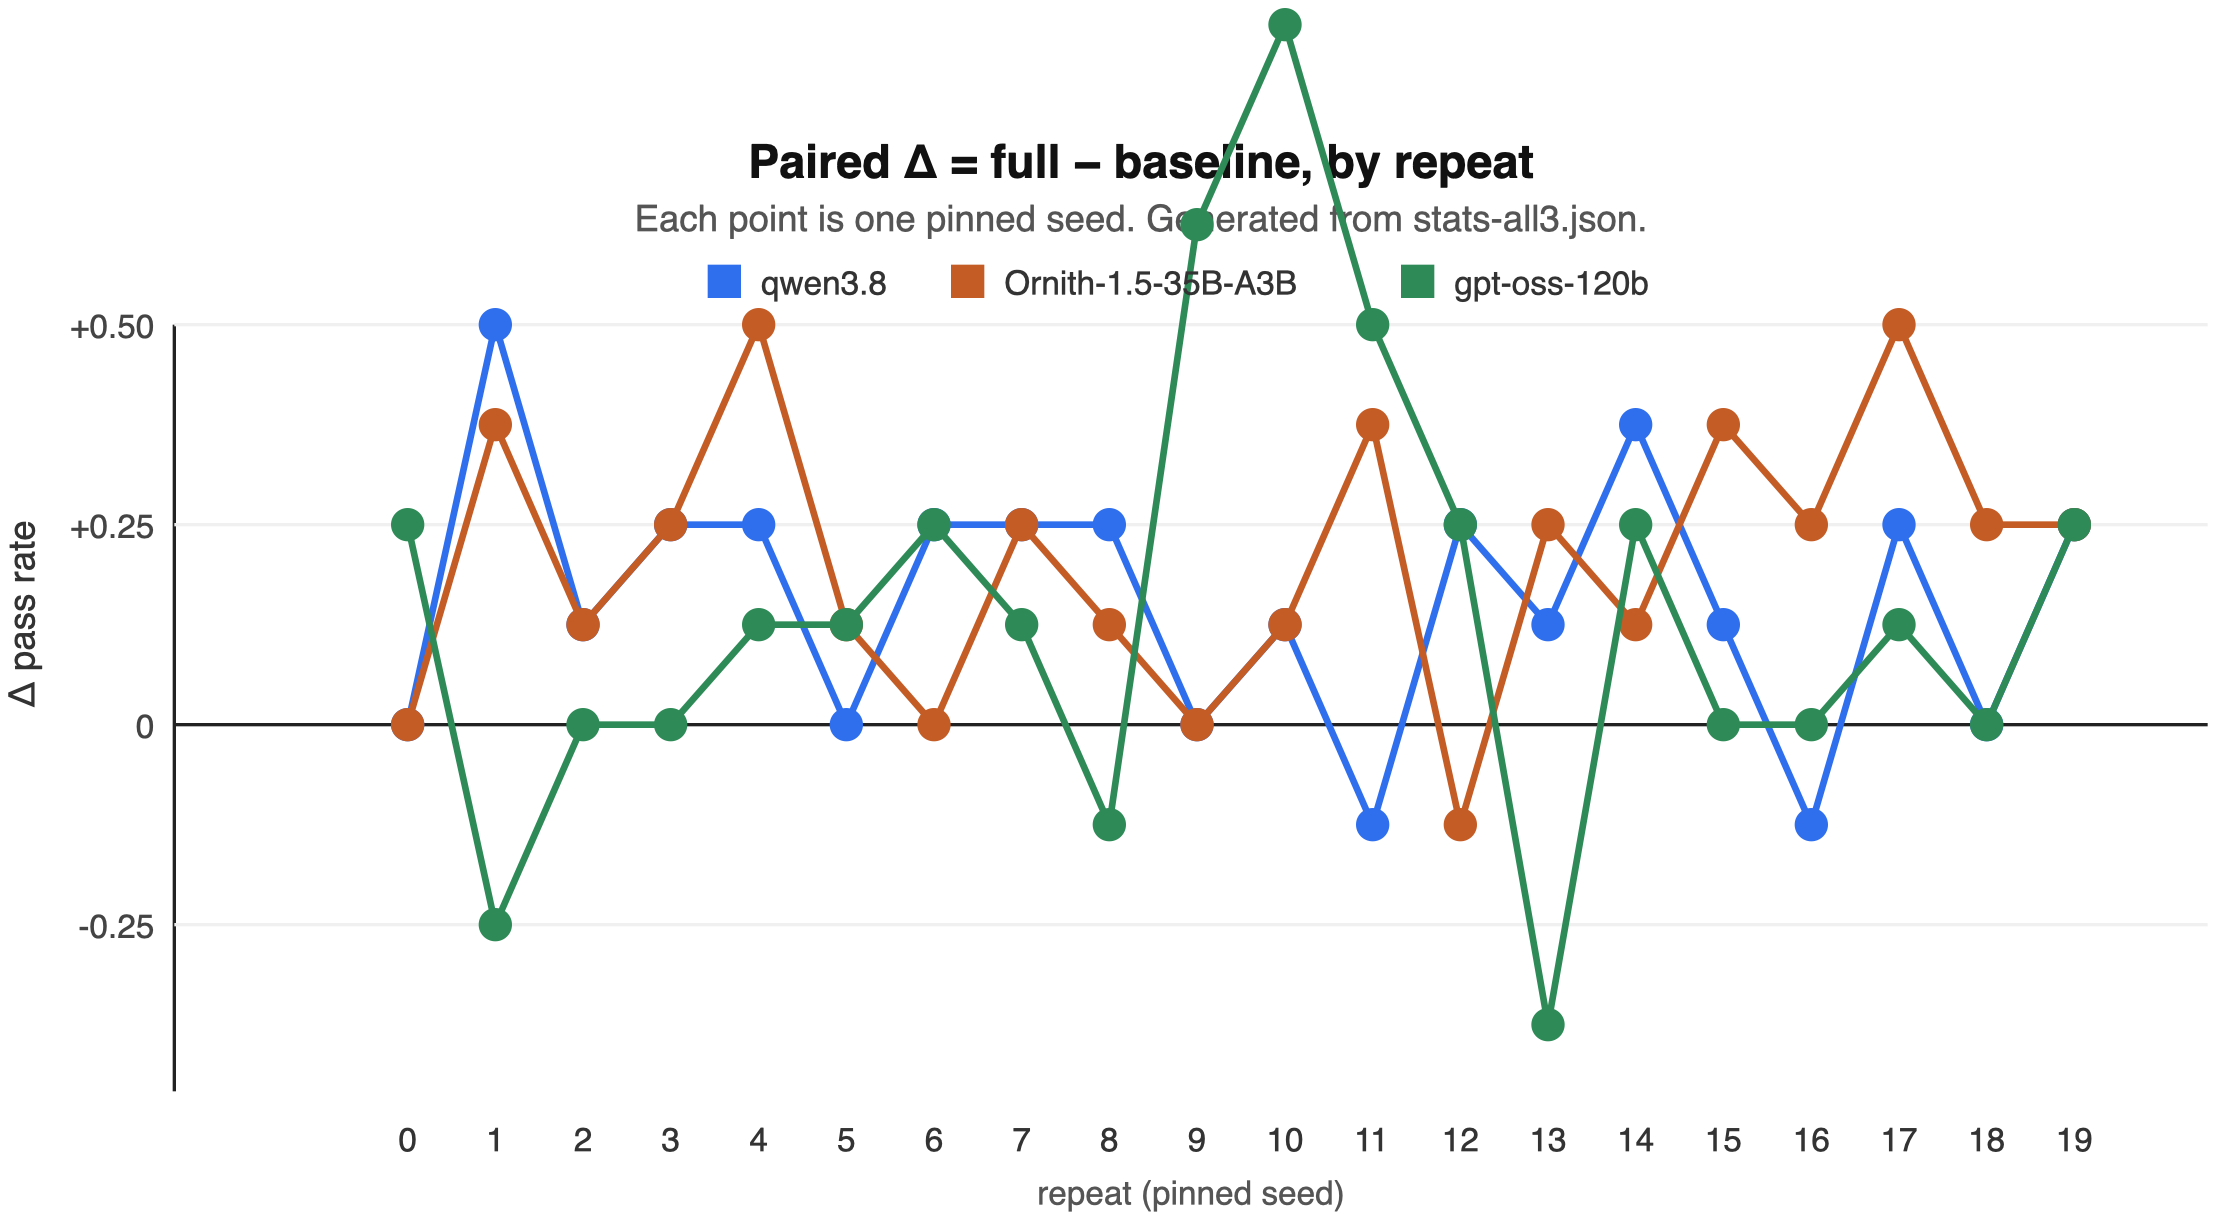
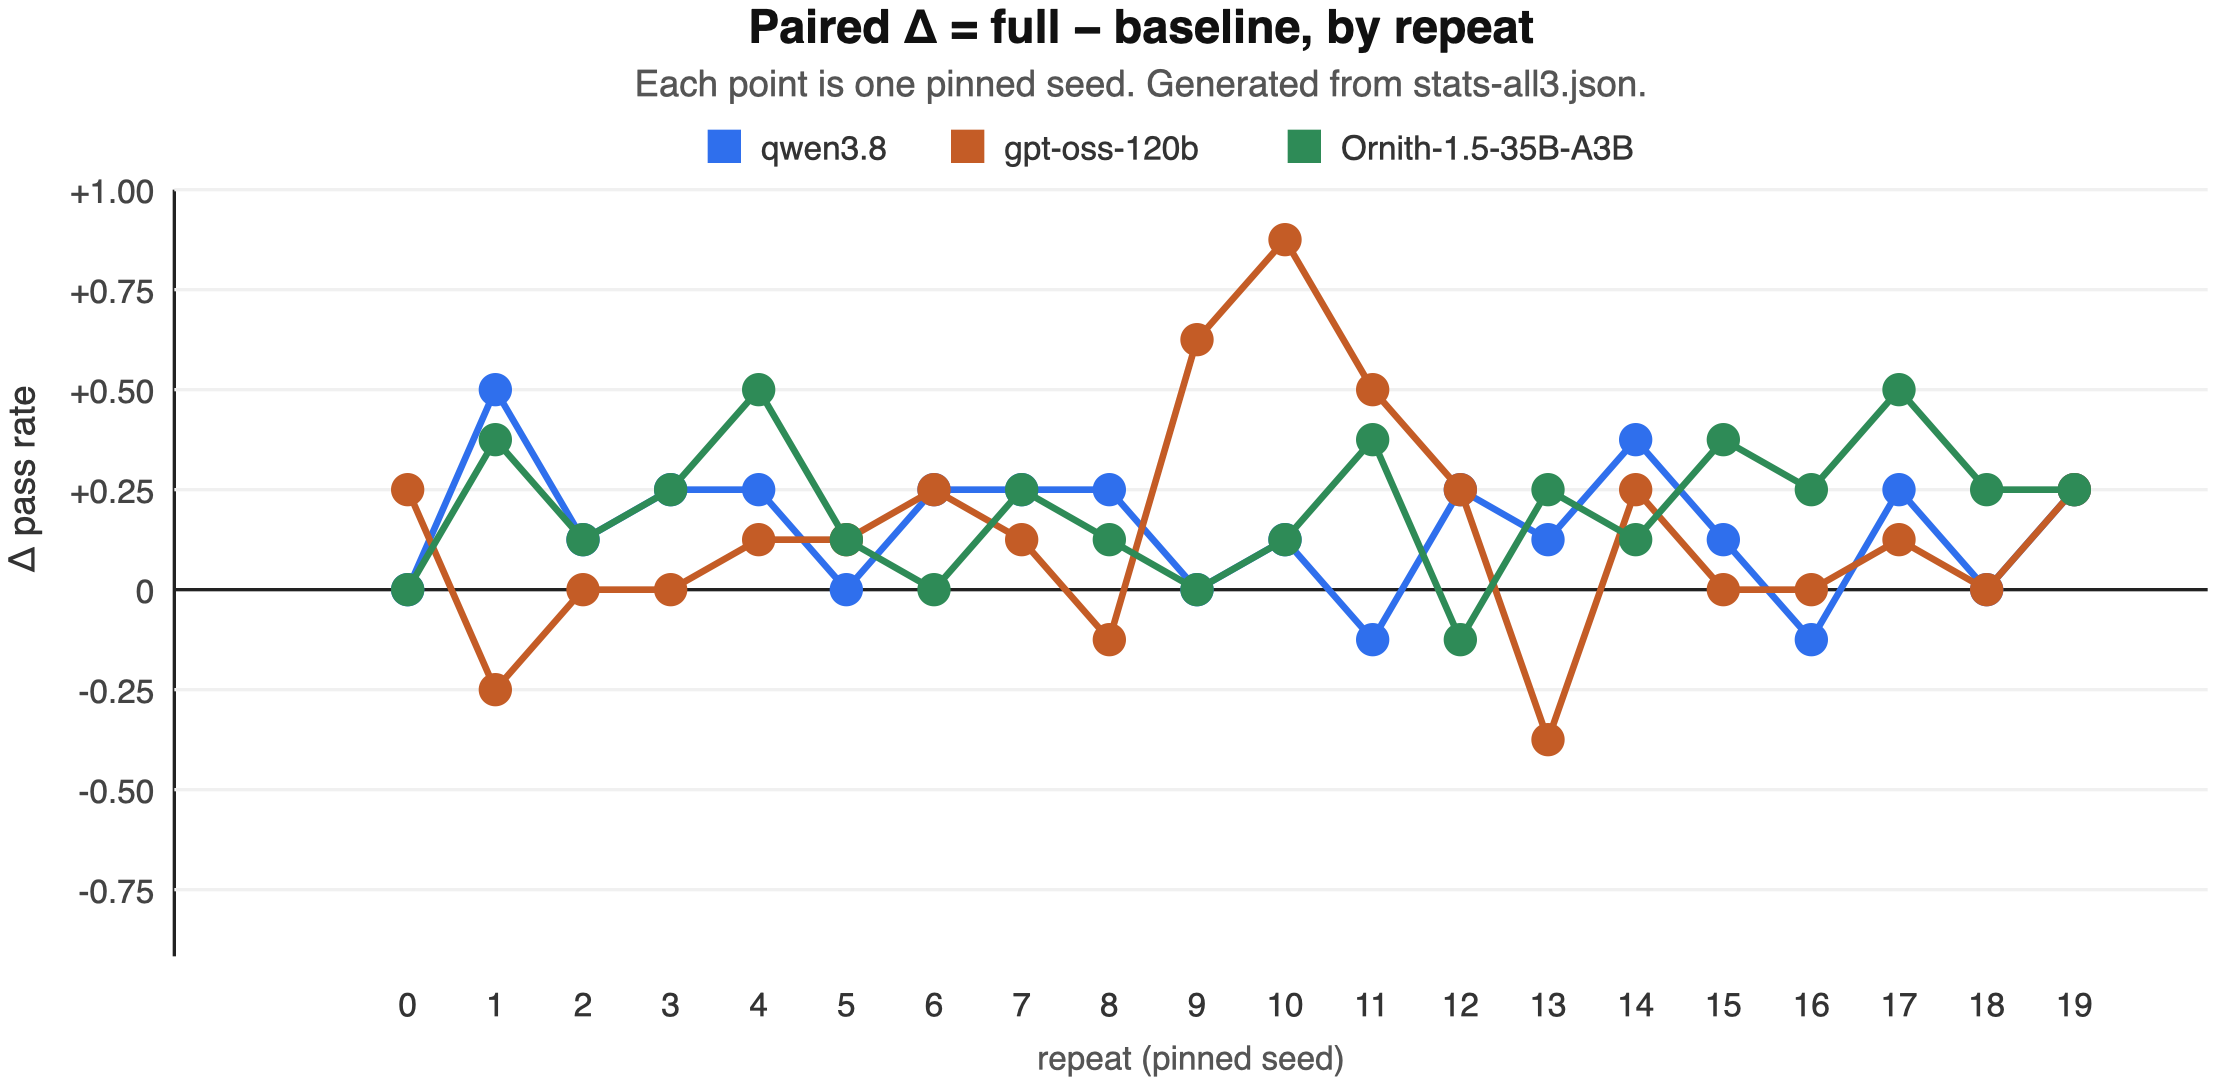
fix(figures): stamp the interaction figures, and make Figure 4 deterministic and complete
interaction_svg took no source argument, so Figures 5-6 were the only generated figures that did not name their report, although the paper said every one did.

Arm order was sorted on the Qwen flag alone, leaving the other arms in set-iteration order: under PYTHONHASHSEED=2 Ornith and gpt-oss-120b swapped colours, and the committed Figure 4 coloured them differently from Figure 3. Both call sites now share _arm_order, which matches from_report.

Figure 4's axis was fixed at +/-0.5; a gpt-oss-120b seed at +0.875 was written at y=-20, off the canvas. The axis now grows in quarter steps to hold the data.

Four new probes fail against the previous code; test_stats.py: 171 ok.

diff --git a/bench/figures.py b/bench/figures.py
@@ -13,6 +13,7 @@ survived injecting a detectable interaction into the data and re-rendering. A
 caption is a claim about the figure; it is derived here, or it is not written.
 """
 import json
+import math
 import os
 import sys
 
@@ -58,6 +59,17 @@ def _colour_for(model, order=()):
         except ValueError:
             pass
     return QWEN if "qwen" in model.lower() else ORNITH
+
+
+def _arm_order(cells):
+    """Arms present in `cells`, Qwen first, then by name.
+
+    The same order `from_report` gives the pass-rate chart, so an arm keeps its
+    colour from figure to figure. Sorting on the Qwen flag alone left every
+    other arm in set-iteration order, which moves with the hash seed.
+    """
+    return sorted({k.split("|", 1)[0] for k in cells},
+                  key=lambda m: ("qwen" not in m.lower(), m))
 
 
 def _esc(s):
@@ -263,7 +275,7 @@ def pass_rates_svg(cells, path, subtitle=None, degenerate=()):
 def repeat_deltas_svg(report, path, ablation="baseline", source=None):
     """Paired Delta = full - <ablation>, per pinned seed, straight from cell rates."""
     cells = report.get("cells", {})
-    models = sorted({k.split("|", 1)[0] for k in cells}, key=lambda m: "qwen" not in m.lower())
+    models = _arm_order(cells)
     series = []
     for m in models:
         full = cells.get(f"{m}|full")
@@ -278,9 +290,16 @@ def repeat_deltas_svg(report, path, ablation="baseline", source=None):
     nrep = max(len(d) for _, d, _ in series)
 
     top, zero, bot, left, right = 70, 190, 300, 70, 680
-    lim = 0.5
+    # The axis grows in quarter steps to hold the widest delta either side. It
+    # was fixed at 0.5, and a +0.875 seed was written at y=-20, off the canvas.
+    step = 0.25
+    need = max([0.5] + [abs(v) for _, d, _ in series for v in d if v > 0]
+               + [-v * (zero - top) / (bot - zero) for _, d, _ in series for v in d if v < 0])
+    lim = step * math.ceil(need / step - 1e-9)
     def y(d):
         return zero - (d / lim) * (zero - top)
+    ticks = [k * step for k in range(int(round(lim / step)), -int(round(lim / step)) - 1, -1)
+             if y(k * step) <= bot]
     xs = [left + 70 + i * ((right - left - 110) / max(nrep - 1, 1)) for i in range(nrep)]
 
     parts = [
@@ -295,7 +314,7 @@ def repeat_deltas_svg(report, path, ablation="baseline", source=None):
         f'<text x="28" y="185" transform="rotate(-90 28 185)" font-size="11" fill="#333">&#916; pass rate</text>',
         '<g font-size="10" fill="#444">',
     ]
-    for t in (0.5, 0.25, 0.0, -0.25):
+    for t in ticks:
         yy = y(t)
         parts.append(f'<text x="{left-6}" y="{yy+4:.1f}" text-anchor="end">{t:+.2f}</text>'
                      if t else f'<text x="{left-6}" y="{yy+4:.1f}" text-anchor="end">0</text>')
@@ -334,13 +353,13 @@ def repeat_deltas_svg(report, path, ablation="baseline", source=None):
 
 # --- Figure 5: interaction, weaker minus stronger ---------------------------
 
-def interaction_svg(report, path, section="interaction"):
+def interaction_svg(report, path, section="interaction", source=None):
     """The interaction ladder from `section` of the report.
 
     `section` selects the resampling scheme: "interaction" is the unpaired one
     the paper cites, "interaction_paired" the seed-paired one. They are
     different procedures and produce different widths, so the figure says
-    which it drew.
+    which it drew. `source` names the report, as every other figure does.
     """
     inter = {k: v for k, v in report.get(section, {}).items() if not k.startswith("_")}
     if not inter:
@@ -349,7 +368,7 @@ def interaction_svg(report, path, section="interaction"):
     left, right, top = 160, 590, 70
     rowh = 26
     w = 800
-    h = top + rowh * len(rows) + 60
+    h = top + rowh * len(rows) + 76
     lim = 0.40
     zero = (left + right) / 2
     def x(v):
@@ -382,6 +401,8 @@ def interaction_svg(report, path, section="interaction"):
                      f'{100*t:+.0f}</text>')
     parts.append(f'<text x="{zero}" y="{ybase+34}" text-anchor="middle" font-size="10" fill="#555">'
                  'percentage points</text>')
+    parts.append(f'<text x="{zero}" y="{ybase+52}" text-anchor="middle" font-size="9" fill="#888">'
+                 f'{_source_note(source)}</text>')
     parts.append("</svg>")
     _write(path, parts)
 
@@ -398,8 +419,7 @@ def graphical_abstract_svg(report, path, source=None):
     page cannot disagree with Table 3.
     """
     cells = report.get("cells", {})
-    models = sorted({k.split("|", 1)[0] for k in cells},
-                    key=lambda m: "qwen" not in m.lower())
+    models = _arm_order(cells)
     arms = []
     for m in models:
         full, base = cells.get(f"{m}|full"), cells.get(f"{m}|baseline")
@@ -531,11 +551,12 @@ def from_report(report, outdir, source=None):
     graphical_abstract_svg(report,
                            os.path.join(outdir, "graphical_abstract.generated.svg"),
                            source=source)
-    interaction_svg(report, os.path.join(outdir, "interaction.generated.svg"))
+    interaction_svg(report, os.path.join(outdir, "interaction.generated.svg"),
+                    source=source)
     if report.get("interaction_paired"):
         interaction_svg(report,
                         os.path.join(outdir, "interaction_paired.generated.svg"),
-                        section="interaction_paired")
+                        section="interaction_paired", source=source)
 
 
 def main():

diff --git a/bench/test_stats.py b/bench/test_stats.py
@@ -416,6 +416,19 @@ probe("the rendered SVG counts what it drew",
       lambda: "1 of 2 intervals excludes zero" in _render_interaction(REPORT_A))
 
 
+def _render_interaction_via_report(report, source):
+    with _tf.TemporaryDirectory() as d:
+        figures.from_report(report, d, source=source)
+        return open(os.path.join(d, "interaction.generated.svg")).read()
+
+
+# The paper says every generated figure names the report it was drawn from.
+# The interaction figure used to be the one that did not.
+probe("the interaction figure names its source report",
+      lambda: "Generated from stats-all3.json." in _render_interaction_via_report(
+          REPORT_A, "stats-all3.json"))
+
+
 def _render_deltas(nrep):
     """Render repeat_deltas for a grid with `nrep` repeats and return the SVG."""
     rates_full = {str(r): (0.5 if r % 2 else 1.0) for r in range(nrep)}
@@ -428,6 +441,50 @@ def _render_deltas(nrep):
         path = os.path.join(d, "d.svg")
         figures.repeat_deltas_svg(report, path, source="stats-v2.json")
         return open(path).read()
+
+
+THREE_ARMS = {"cells": {
+    f"{m}|{c}": {"mean": 0.5, "lo": 0.4, "hi": 0.6,
+                 "rates": {"0": (0.875 if c == "full" and "gpt" in m else 0.5),
+                           "1": (0.0 if c == "full" and "gpt" in m else 0.5)}}
+    for m in ("qwen3.8:27b", "hf.co/x/Ornith-1.5-35B-A3B-GGUF:Q8_0",
+              "cerebras:gpt-oss-120b")
+    for c in ("full", "baseline")}}
+THREE_ARMS["cells"]["cerebras:gpt-oss-120b|baseline"]["rates"] = {"0": 0.0, "1": 0.375}
+
+
+def _render_deltas_under_hashseed(seed):
+    """Render Figure 4 in a fresh interpreter with a given PYTHONHASHSEED."""
+    import subprocess
+    code = ("import json, sys, figures; "
+            "figures.repeat_deltas_svg(json.loads(sys.argv[1]), sys.argv[2])")
+    with _tf.TemporaryDirectory() as d:
+        path = os.path.join(d, "d.svg")
+        subprocess.run([sys.executable, "-c", code, json.dumps(THREE_ARMS), path],
+                       check=True, cwd=os.path.dirname(os.path.abspath(__file__)),
+                       env={**os.environ, "PYTHONHASHSEED": str(seed)})
+        return open(path).read()
+
+
+# Arm order came from iterating a set, so which arm got which colour depended on
+# the interpreter's hash seed: two builds of the same report could disagree.
+probe("Figure 4 is byte-identical across hash seeds",
+      lambda: len({_render_deltas_under_hashseed(s) for s in range(6)}) == 1)
+probe("Figure 4 colours each arm as Figure 3 does",
+      lambda: all(figures._colour_for(m, figures._arm_order(THREE_ARMS["cells"]))
+                  == figures._colour_for(m, ["qwen3.8:27b", "cerebras:gpt-oss-120b",
+                                             "hf.co/x/Ornith-1.5-35B-A3B-GGUF:Q8_0"])
+                  for m in ("qwen3.8:27b", "cerebras:gpt-oss-120b",
+                            "hf.co/x/Ornith-1.5-35B-A3B-GGUF:Q8_0")))
+# A delta of +0.875 was drawn at y=-20, outside the canvas: the point existed
+# in the file and nowhere on the page.
+probe("every Figure 4 point lies on the canvas",
+      lambda: all(0 <= float(v) <= 340 for v in re.findall(
+          r'<circle cx="[-\d.]+" cy="([-\d.]+)"', _render_deltas_under_hashseed(0))),
+      lambda: re.findall(r'cy="(-[\d.]+)"', _render_deltas_under_hashseed(0)))
+probe("every Figure 4 point lies inside the plot area",
+      lambda: all(70 <= float(v) <= 300 for v in re.findall(
+          r'<circle cx="[-\d.]+" cy="([-\d.]+)"', _render_deltas_under_hashseed(0))))
 
 
 def _legend_ys(svg):
